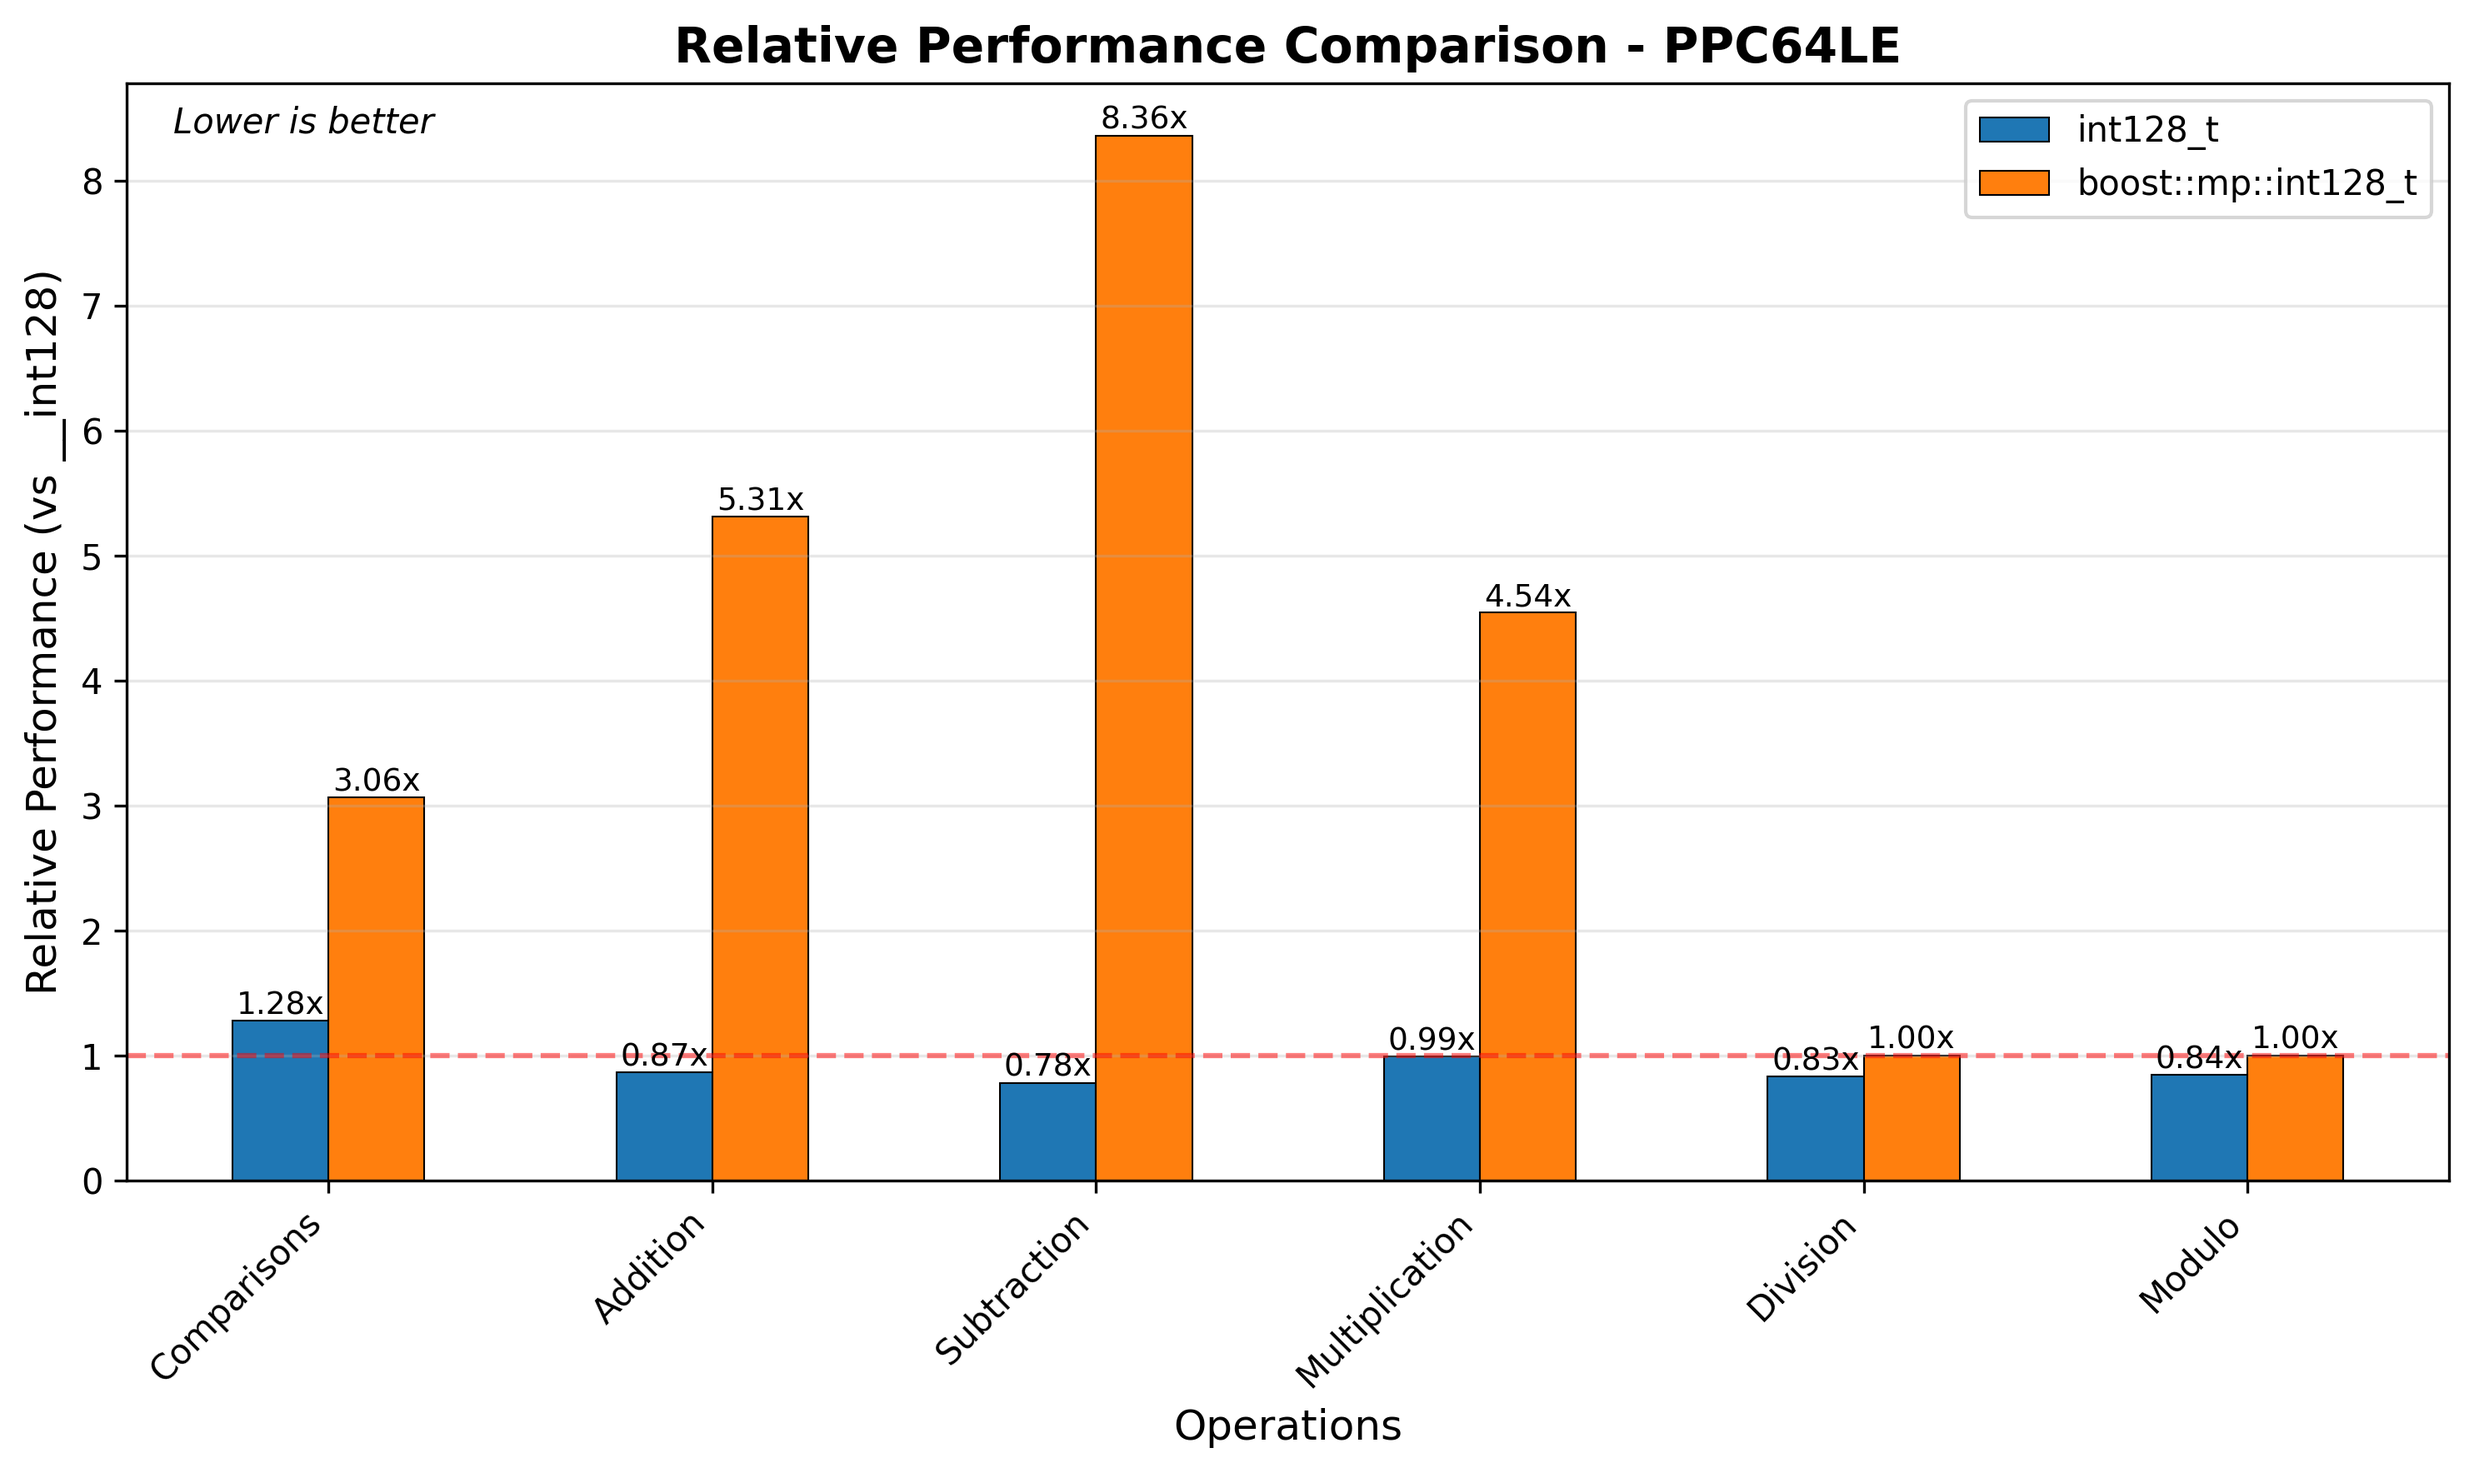
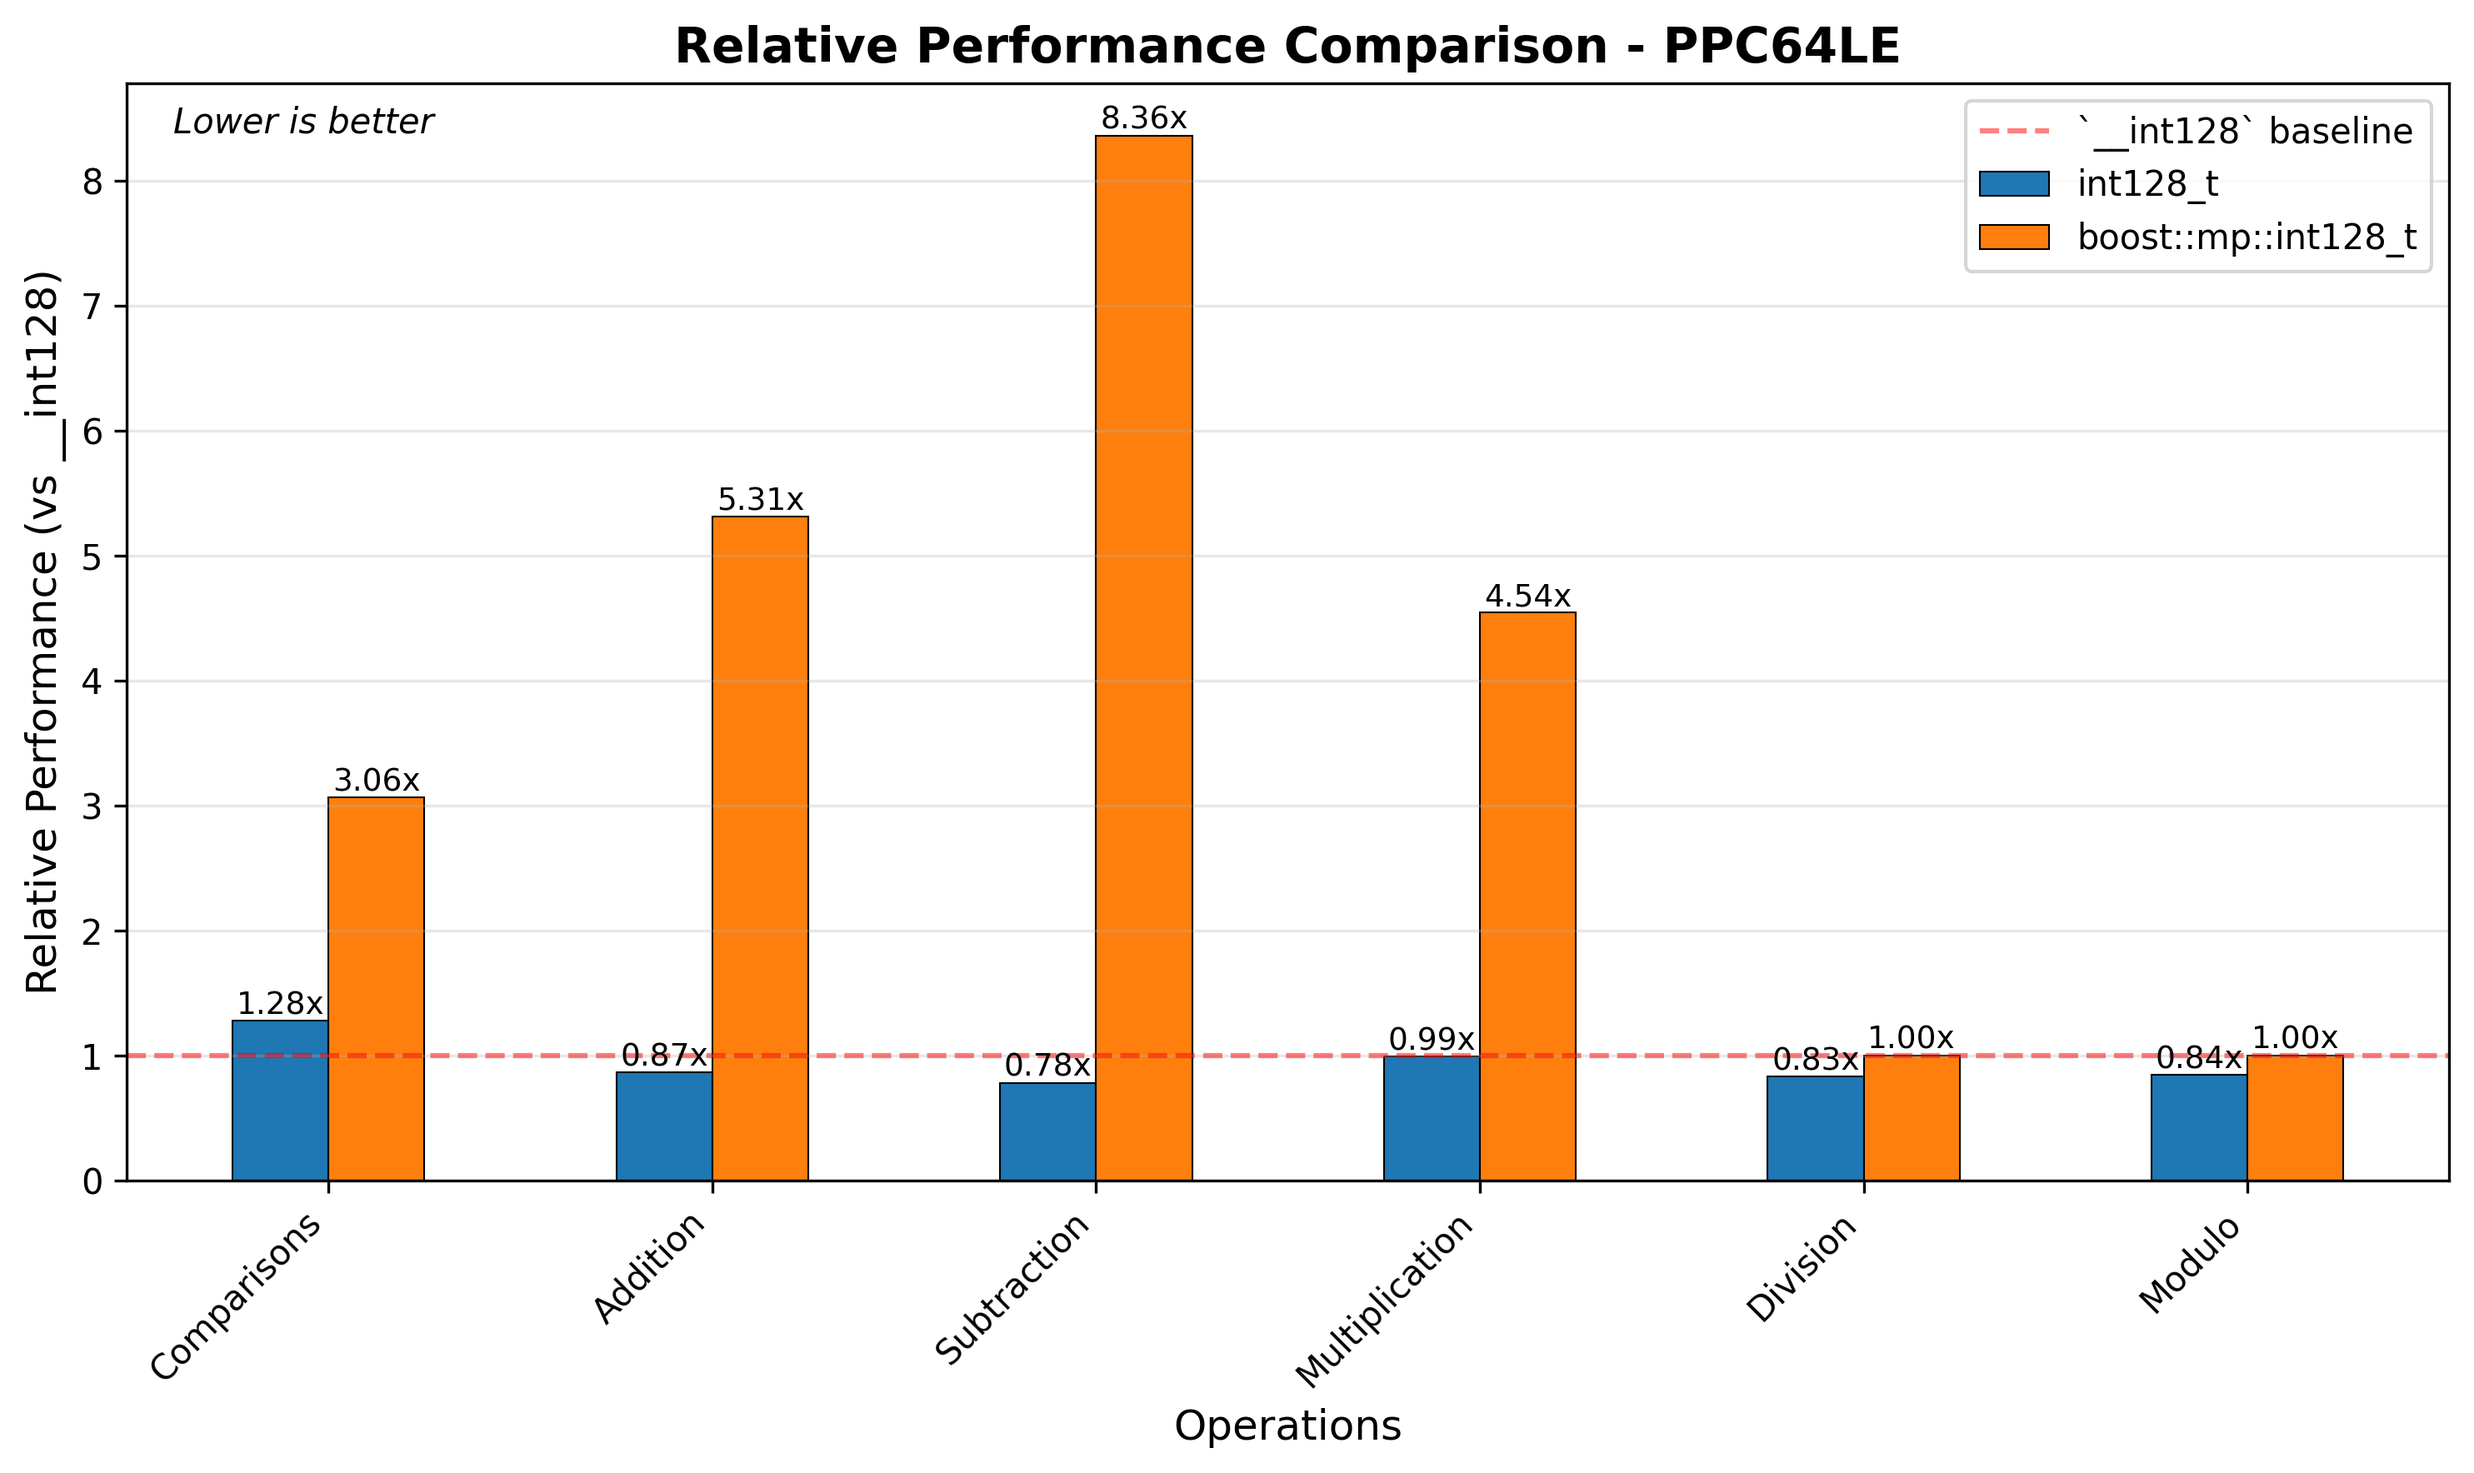
Fix missing annotation for baseline and add x64 mac data

Changed region(s): [[0.7747, 0.0622, 0.9916, 0.1867]]

diff --git a/doc/signed_plots.py b/doc/signed_plots.py
@@ -6,38 +6,48 @@ import pandas as pd
 # Linux x64
 data = {
     'Operation': ['Comparisons', 'Addition', 'Subtraction', 'Multiplication', 'Division', 'Modulo'],
-    '__int128': [2086545, 229772, 245300, 403481, 4315016, 4303454],
+    '`__int128`': [2086545, 229772, 245300, 403481, 4315016, 4303454],
     'int128_t': [1807917, 249644, 172252, 246659, 4369512, 4686920],
     'boost::mp::int128_t': [6119951, 620566, 1522422, 898345, 4767180, 4855786]
 }
 """
+
 """
 # Linux ARM64
 data = {
     'Operation': ['Comparisons', 'Addition', 'Subtraction', 'Multiplication', 'Division', 'Modulo'],
-    '__int128': [3524205, 109691, 195129, 286623, 2350225, 2345191],
+    '`__int128`': [3524205, 109691, 195129, 286623, 2350225, 2345191],
     'int128_t': [2191692, 126544, 196092, 192214, 2163053, 2167260],
     'boost::mp::int128_t': [5559916, 553814, 1024231, 924637, 2718340, 2380277]
 }
 """
-
 """
 # Linux s390x
 data = {
     'Operation': ['Comparisons', 'Addition', 'Subtraction', 'Multiplication', 'Division', 'Modulo'],
-    '__int128': [7033705, 558950, 534362, 911317, 4371582, 4375939],
+    '`__int128`': [7033705, 558950, 534362, 911317, 4371582, 4375939],
     'int128_t': [6231386, 689575, 329127, 946090, 3574992, 3727994],
     'boost::mp::int128_t': [10322828, 1673032, 2149206, 1362947, 3669927, 4419901]
 }
 """
-
+"""
 # Linux ppc64le
 data = {
     'Operation': ['Comparisons', 'Addition', 'Subtraction', 'Multiplication', 'Division', 'Modulo'],
-    '__int128': [4538094, 221708, 222629, 193315, 5607581, 5623562],
+    '`__int128`': [4538094, 221708, 222629, 193315, 5607581, 5623562],
     'int128_t': [5796198, 191841, 174273, 191785, 4669820, 4750314],
     'boost::mp::int128_t': [13907323, 1177034, 1861166, 878393, 5616217, 5641480]
 }
+"""
+"""
+# macos x64
+data = {
+    'Operation': ['Comparisons', 'Addition', 'Subtraction', 'Multiplication', 'Division', 'Modulo'],
+    '`__int128`': [1628142, 224648, 212849, 432205, 3924951, 3042060],
+    'int128_t': [1748005, 180393, 131062, 407829, 2409106, 2423738],
+    'boost::mp::int128_t': [4318109, 925013, 1876834, 651209, 3719183, 4443402]
+}
+"""
 
 df = pd.DataFrame(data)
 
@@ -76,7 +86,7 @@ for i, (idx, row) in enumerate(df.iterrows()):
 
 ax1.set_xlabel('Operations', fontsize=12)
 ax1.set_ylabel('Time (nanoseconds)', fontsize=12)
-ax1.set_title('GCC 14 - PPC64LE Benchmark Results', fontsize=14, fontweight='bold')
+ax1.set_title('Clang 15 - x64 Benchmark Results', fontsize=14, fontweight='bold')
 ax1.set_xticks(x)
 ax1.set_xticklabels(operations, rotation=45, ha='right')
 ax1.legend(loc='upper left')
@@ -105,7 +115,7 @@ for i, impl in enumerate(implementations):
 
 ax2.set_xlabel('Operations', fontsize=12)
 ax2.set_ylabel('Time (nanoseconds) - Log Scale', fontsize=12)
-ax2.set_title('GCC 14 - PPC64LE Benchmark Results (Log Scale)', fontsize=14, fontweight='bold')
+ax2.set_title('Clang 15 - x64 Benchmark Results (Log Scale)', fontsize=14, fontweight='bold')
 ax2.set_yscale('log')
 ax2.set_xticks(x)
 ax2.set_xticklabels(operations, rotation=45, ha='right')
@@ -113,7 +123,7 @@ ax2.legend(loc='upper left')
 ax2.grid(axis='y', alpha=0.3, which='both')
 
 plt.tight_layout()
-plt.savefig('ppc64le_benchmarks.png', dpi=300, bbox_inches='tight')
+plt.savefig('x64_benchmarks.png', dpi=300, bbox_inches='tight')
 plt.show()
 
 # Create a normalized performance chart
@@ -122,11 +132,11 @@ fig3, ax3 = plt.subplots(figsize=(10, 6))
 # Normalize data relative to __int128
 normalized_df = df.copy()
 for col in implementations:
-    normalized_df[col] = df[col] / df['__int128']
+    normalized_df[col] = df[col] / df['`__int128`']
 
 # Plot normalized bars
 for i, impl in enumerate(implementations):
-    if impl == '__int128':
+    if impl == '`__int128`':
         continue  # Skip since it's always 1.0
     bars = ax3.bar(x + (i-1.5)*width, normalized_df[impl], width,
                    label=impl, edgecolor='black', linewidth=0.5)
@@ -138,7 +148,7 @@ for i, impl in enumerate(implementations):
                  f'{height:.2f}x', ha='center', va='bottom', fontsize=9)
 
 # Add reference line at 1.0
-ax3.axhline(y=1.0, color='red', linestyle='--', alpha=0.5, label='__int128 baseline')
+ax3.axhline(y=1.0, color='red', linestyle='--', alpha=0.5, label='`__int128` baseline')
 
 ax3.set_xlabel('Operations', fontsize=12)
 ax3.set_ylabel('Relative Performance (vs __int128)', fontsize=12)
@@ -153,7 +163,7 @@ ax3.text(0.02, 0.98, 'Lower is better', transform=ax3.transAxes,
          fontsize=10, verticalalignment='top', style='italic')
 
 plt.tight_layout()
-plt.savefig('ppc64le_relative_performance.png', dpi=300, bbox_inches='tight')
+plt.savefig('x64_relative_performance.png', dpi=300, bbox_inches='tight')
 plt.show()
 
 # Generate summary statistics
